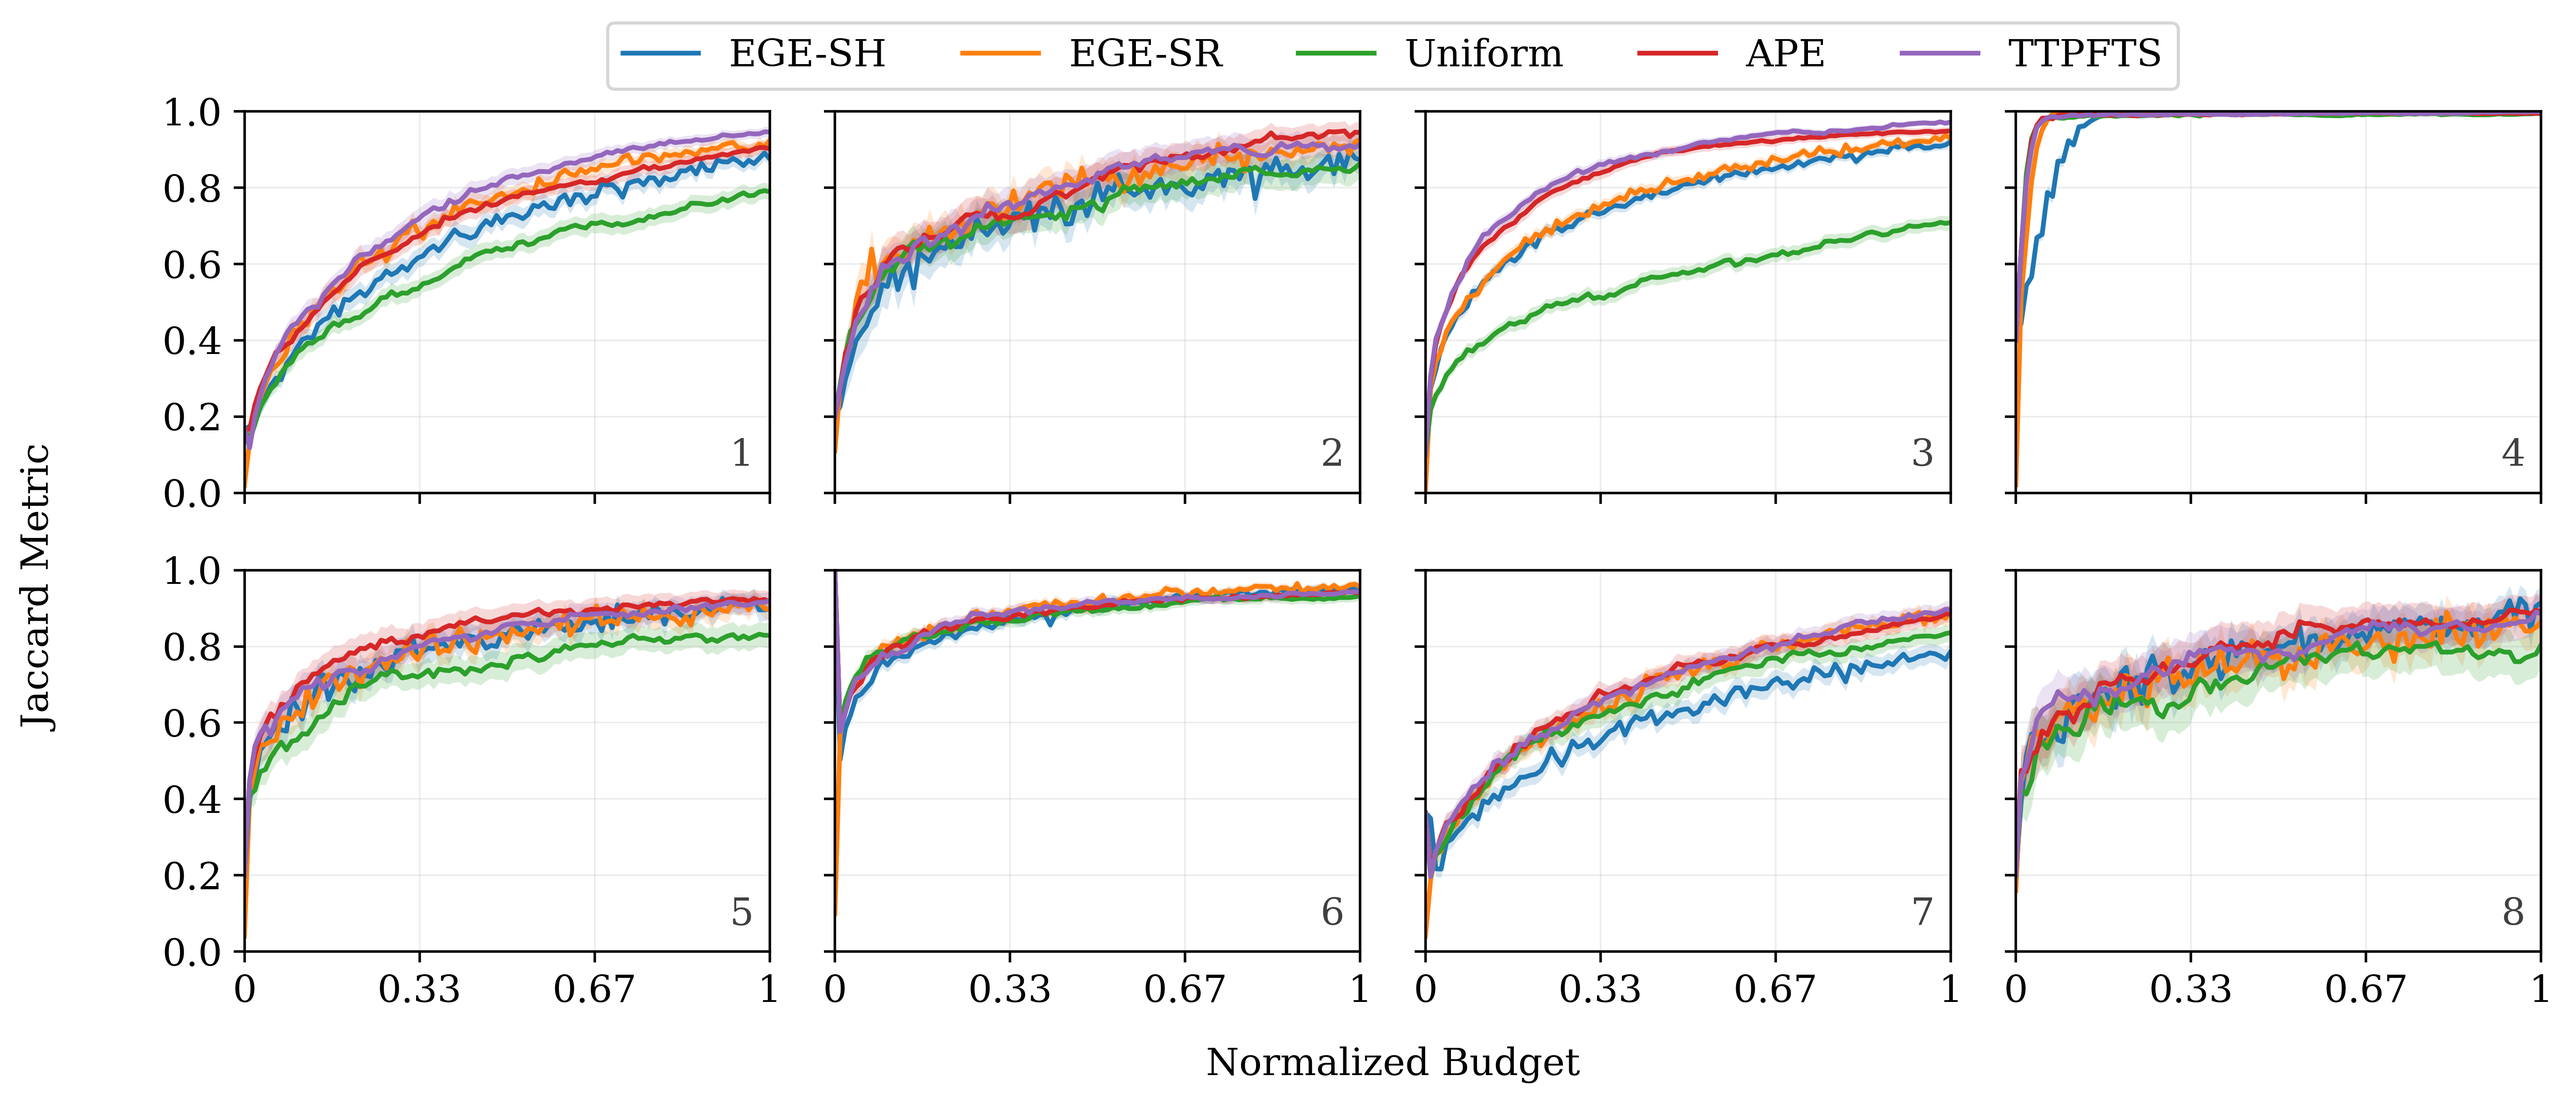
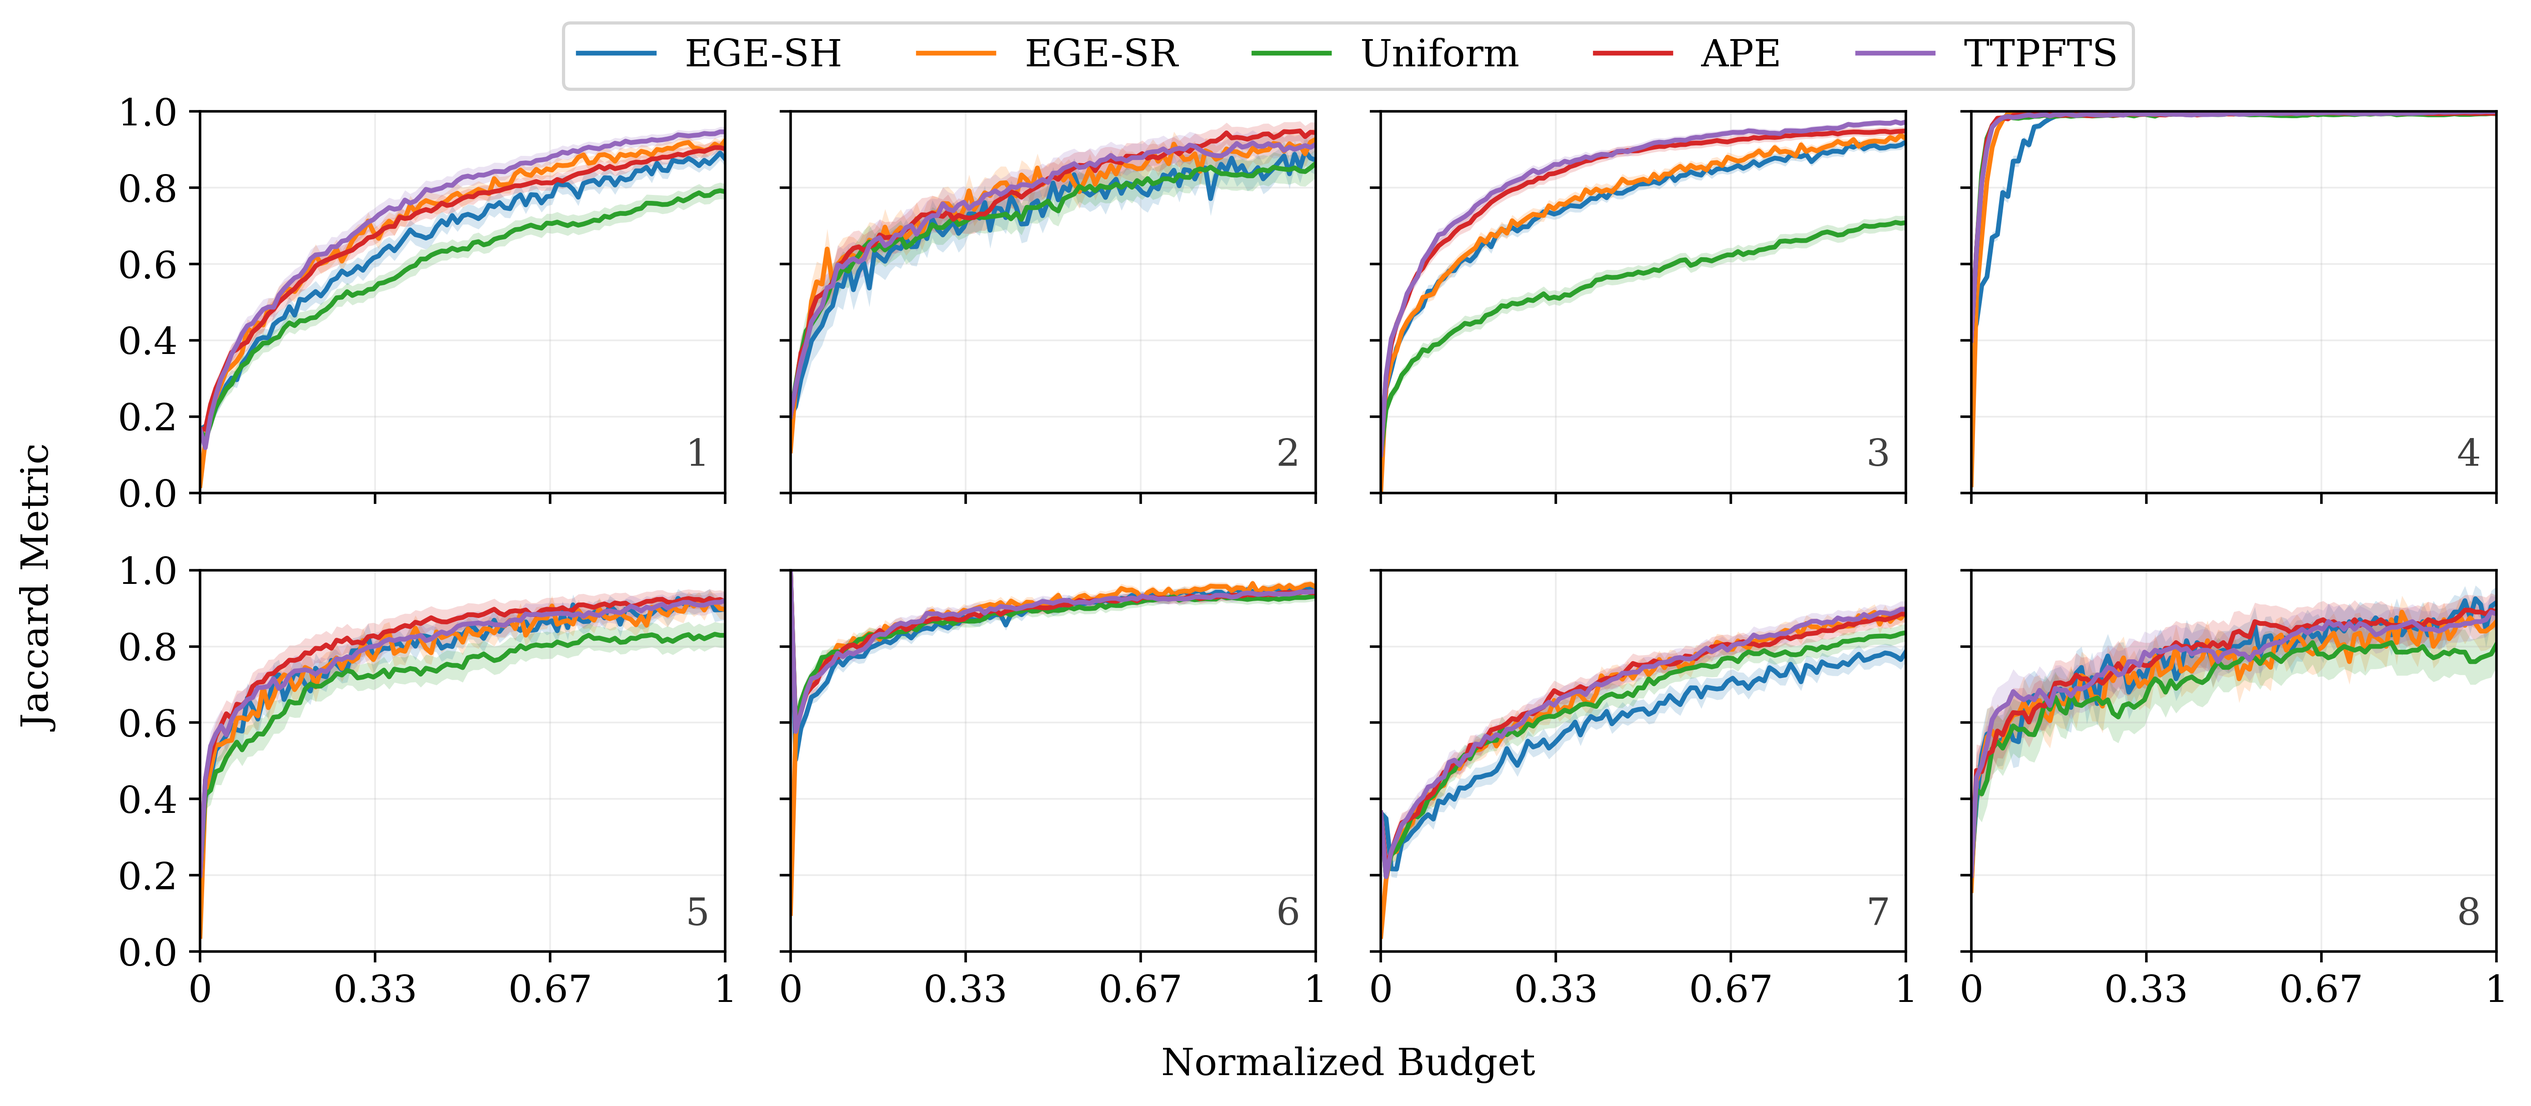
Move shared metric label closer to grid
Shift only the shared y-axis metric label toward the publication subplot grid while preserving the approved normalized-budget title placement.

diff --git a/plotting.py b/plotting.py
@@ -645,7 +645,7 @@ def plot_metric_all_envs_grid_top_legend(
     )
     fig.supylabel(
         METRIC_LABELS[metric_key],
-        x=0.13,
+        x=0.145,
         fontsize=PUBLICATION_FONT_SIZE,
     )
     # Reserve a fixed band for the figure-level legend.  This must not be
